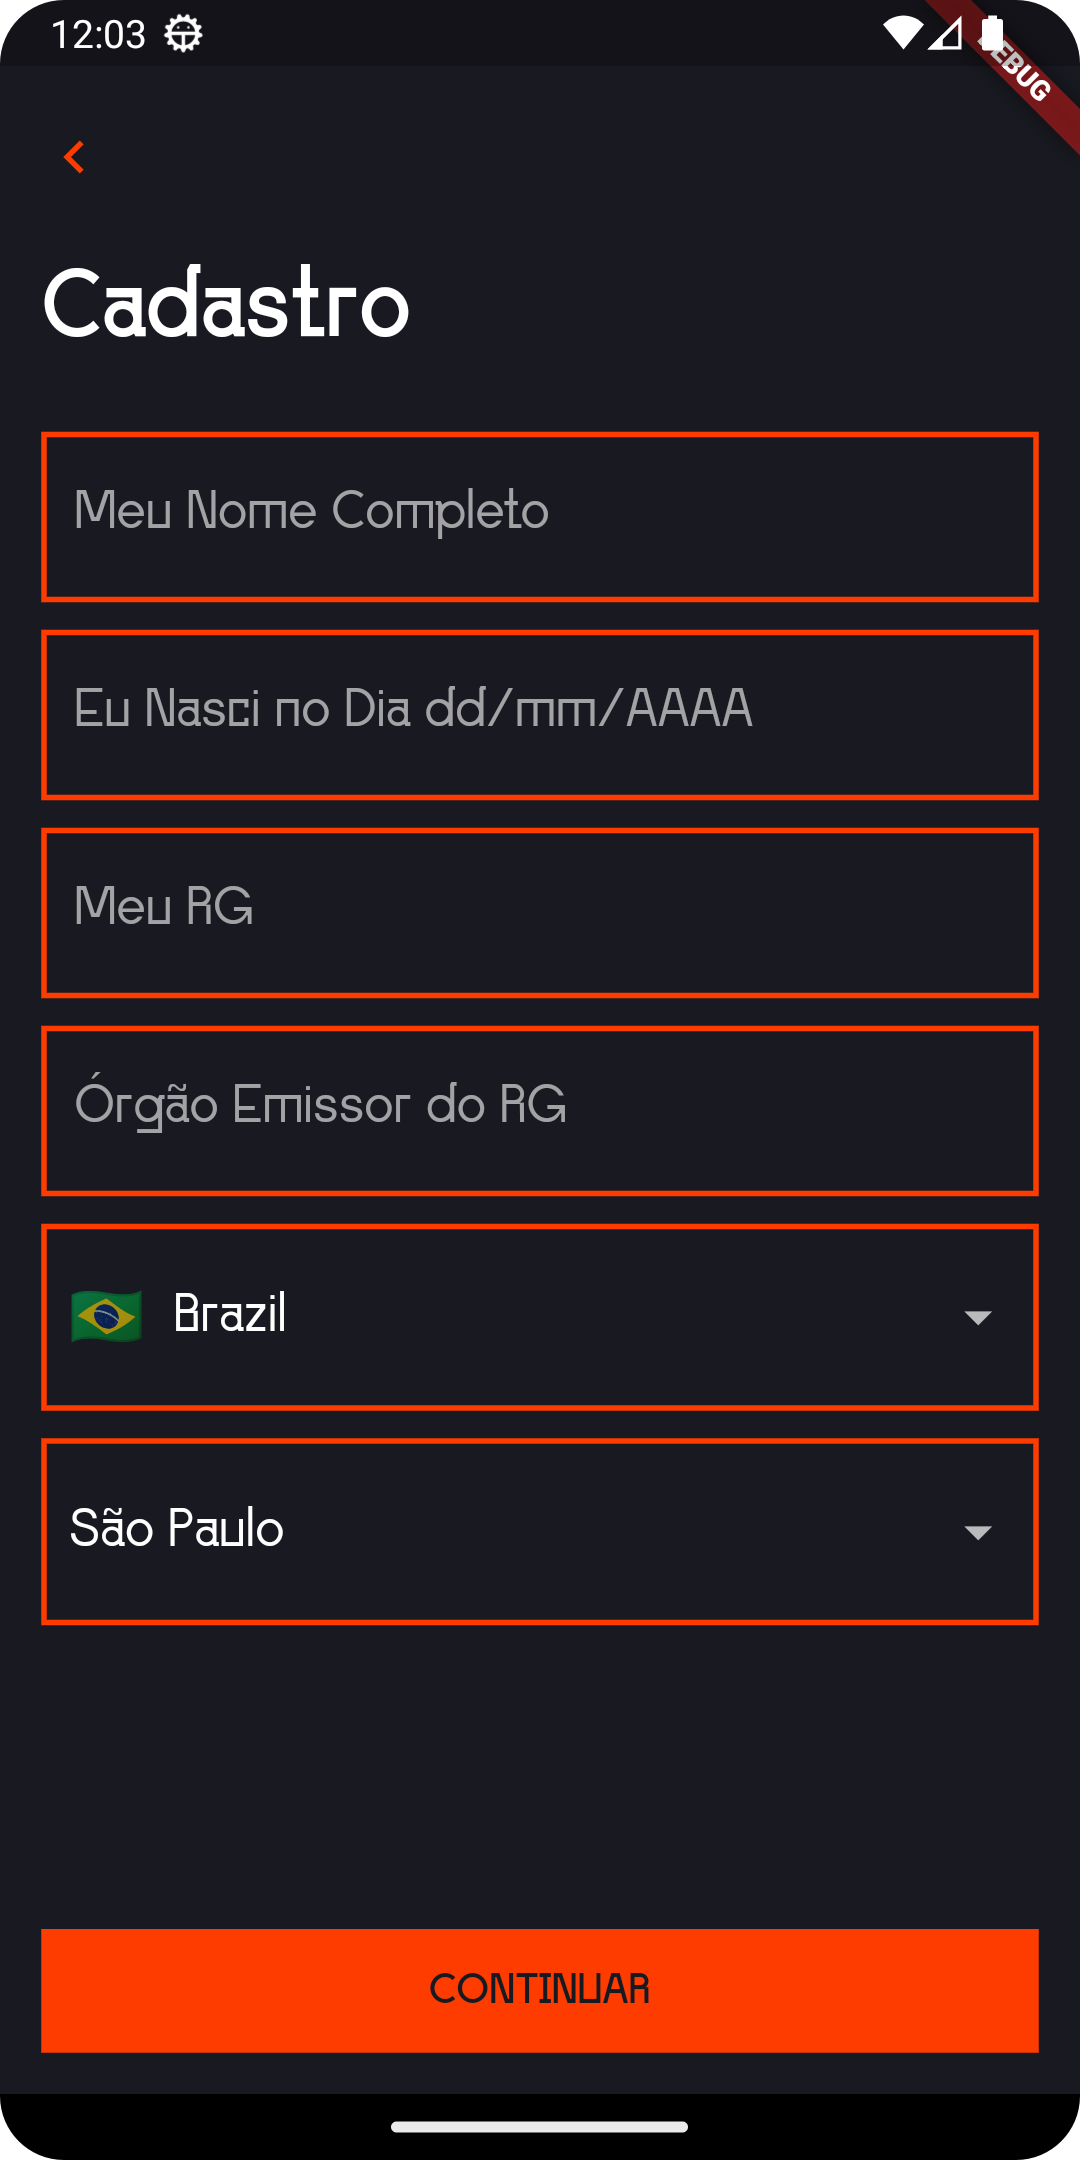
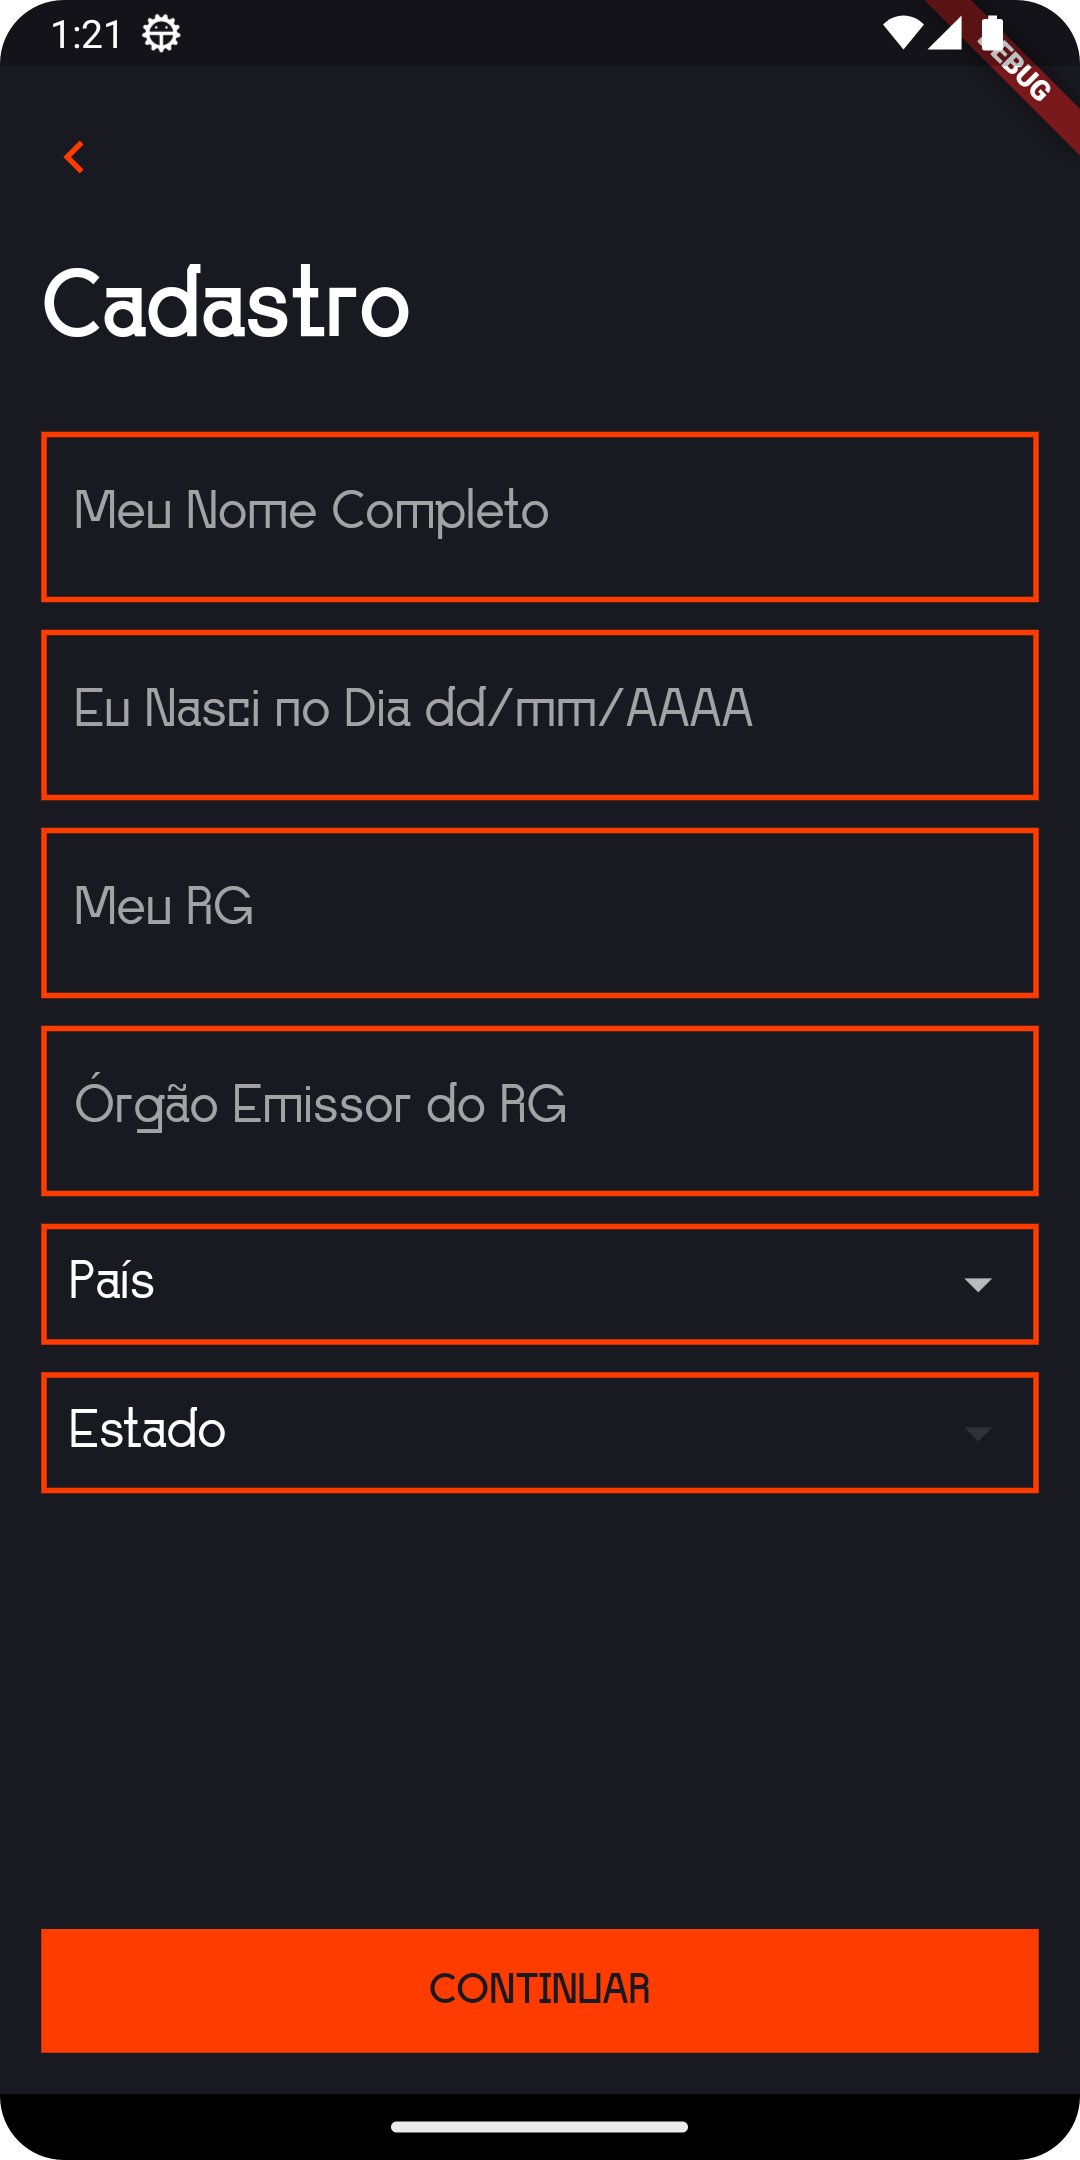
update: new package version for country state picker, add style to dropdown text hint, update screenshot for user data page

Changed region(s): [[0.0306, 0.5894, 0.9778, 0.7755], [0.0611, 0.0, 0.1833, 0.031], [0.8556, 0.0, 0.8861, 0.031]]

diff --git a/lib/login/sign_up/user_data_page.dart b/lib/login/sign_up/user_data_page.dart
@@ -1,3 +1,4 @@
+import 'package:country_state_picker/components/index.dart';
 import 'package:country_state_picker/country_state_picker.dart';
 import 'package:flutter/material.dart';
 import 'package:players_bank_redesign/login/sign_up/user_profession_page.dart';
@@ -55,6 +56,8 @@ class _UserDataPageState extends State<UserDataPage> {
                 const TextFieldWidget(hintText: 'Órgão Emissor do RG'),
                 const SizedBox(height: sizedBoxHeightMin),
                 CountryStatePicker(
+                  countryHintText: 'País',
+                  stateHintText: 'Estado',
                   stateLabel: Visibility(
                     visible: showLabel,
                     child: Label(
